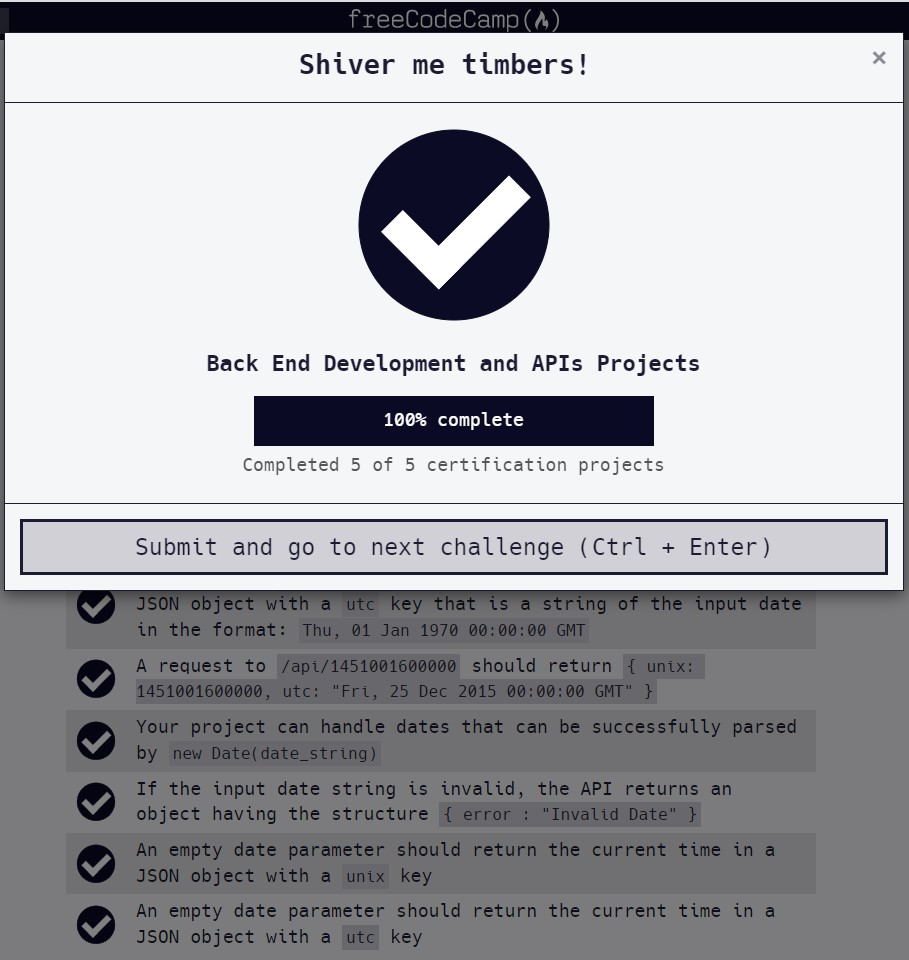
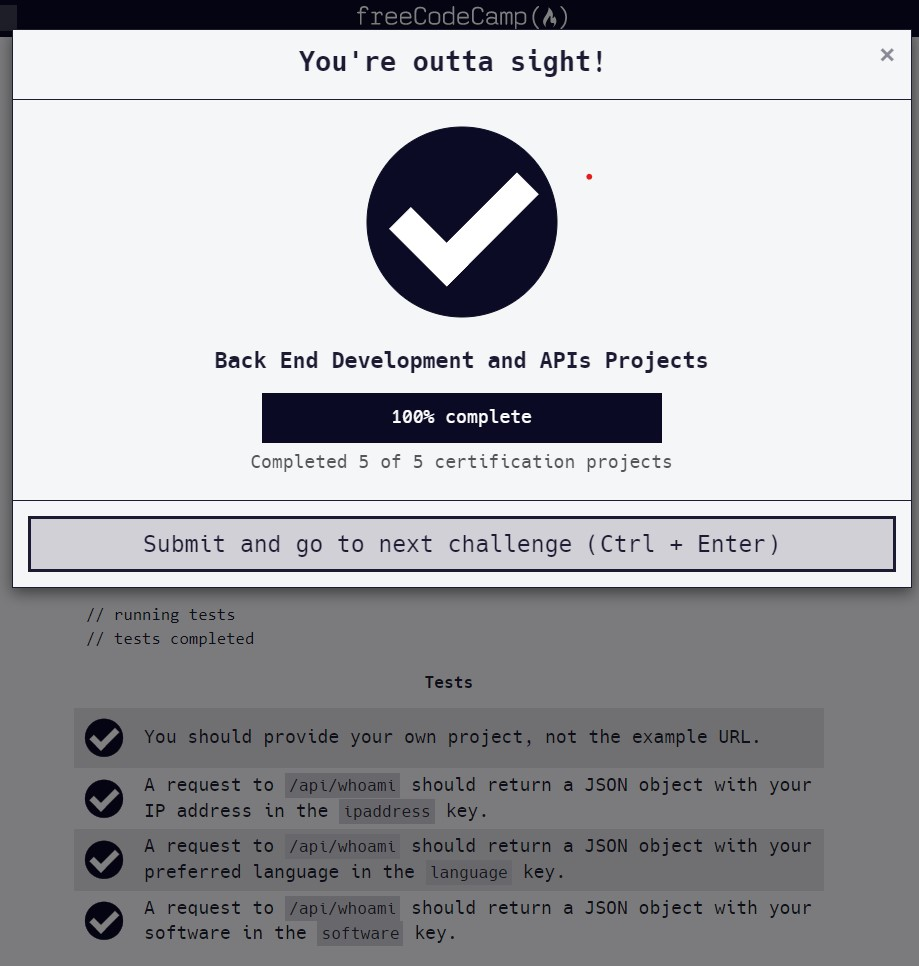
first commit

diff --git a/index.js b/index.js
@@ -2,76 +2,36 @@
 // where your node app starts
 
 // init project
+require('dotenv').config();
 var express = require('express');
 var app = express();
 
 // enable CORS (https://en.wikipedia.org/wiki/Cross-origin_resource_sharing)
-// so that your API is remotely testable by FCC 
+// so that your API is remotely testable by FCC
 var cors = require('cors');
-app.use(cors({optionsSuccessStatus: 200}));  // some legacy browsers choke on 204
+app.use(cors({ optionsSuccessStatus: 200 })); // some legacy browsers choke on 204
 
 // http://expressjs.com/en/starter/static-files.html
 app.use(express.static('public'));
 
 // http://expressjs.com/en/starter/basic-routing.html
-app.get("/", function (req, res) {
+app.get('/', function (req, res) {
   res.sendFile(__dirname + '/views/index.html');
 });
 
-// your first API endpoint... 
-app.get("/api/hello", function (req, res) {
-  res.json({greeting: 'hello API'});
+// your first API endpoint...
+app.get('/api/hello', function (req, res) {
+  res.json({ greeting: 'hello API' });
 });
 
-app.get("/api/:date?", (req,res) => {
-  let input = req.params.date;
-
-  /*1.create variable for checking :  
-      a.isValidDate 
-        to check if input is string with valid date format -> 
-        if not valid date, it will return NaN 
-        example : 
-        -valid   : 2015-12-25, 
-        -invalid : 2015-02-31, 1451001600000
-  */
-  let isValidDate       = Date.parse(input); 
-
-  /*  b.isValidUnixNumber
-        to check if input is string with whole number(no symbol or character in the middle of input) -> 
-        it must be valid unix (source : https://benjaminsemah.com/build-timestamp-microservice)
-  */
-  let isValidUnixNumber = /^[0-9]+$/.test(input)
-
-  //  c.isEmpty to check there is nothing in input
-  let isEmpty = input == "" || input == null;
-  
-  //3.create another variables used in if-else
-  let unix_output = 0;
-  let utc_output  = "";
-  
-  if (isValidDate) {
-    unix_output = new Date(input);
-    utc_output  = unix_output.toUTCString();
-    // valueOf used for getting a variable back to primitive type
-    return res.json({unix : unix_output.valueOf(), utc : utc_output});
-  }
-  else if (isNaN(isValidDate) && isValidUnixNumber) {
-    unix_output = new Date(parseInt(input));
-    utc_output  = unix_output.toUTCString();
-    return res.json({unix : unix_output.valueOf(), utc : utc_output});
-  }
-  else if (isEmpty) {
-    unix_output = new Date();
-    utc_output  = unix_output.toUTCString();
-    return res.json({unix : unix_output.valueOf(), utc : utc_output});  
-  }
-  else {
-    res.json({error: "Invalid Date"});
-  }
-  
+app.get('/api/whoami',(req,res) =>{
+  let yourIP = req.ip;
+  let yourLanguage = req.header("accept-language");
+  let yourSoftware = req.header("user-agent");
+  res.json({ipaddress : yourIP, language : yourLanguage, software : yourSoftware});
 });
 
 // listen for requests :)
-var listener = app.listen(process.env.PORT, function () {
+var listener = app.listen(process.env.PORT || 3000, function () {
   console.log('Your app is listening on port ' + listener.address().port);
 });

diff --git a/views/index.html b/views/index.html
@@ -1,32 +1,34 @@
 <!DOCTYPE html>
 
 <html>
+
    <head>
-      <title>Timestamp Microservice | freeCodeCamp.org</title>
-      <link rel="shortcut icon" href="https://cdn.freecodecamp.org/universal/favicons/favicon-32x32.png" type="image/x-icon"/>
+      <title>Request Header Parser</title>
+      <link rel="shortcut icon" href="https://cdn.hyperdev.com/us-east-1%3A52a203ff-088b-420f-81be-45bf559d01b1%2Ffavicon.ico" type="image/x-icon"/>
       <link href="https://fonts.googleapis.com/css?family=Roboto" rel="stylesheet" type="text/css">
       <link href="style.css" rel="stylesheet" type="text/css">
    </head>
 
    <body>
-    <h1>Timestamp Microservice</h1>
-    <hr />
-    <div class="container">
-      <h3>Example Usage:</h3>
-      <ul>
-        <li><a href="api/2015-12-25">[project url]/api/2015-12-25</a></li>
-        <li><a href="api/1451001600000">[project url]/api/1451001600000</a></li>
-      </ul>
+      <div class="container">
+        <h2>Request Header Parser Microservice</h2>
 
-      <h3>Example Output:</h3>
-      <p>
-        <code>{"unix":1451001600000, "utc":"Fri, 25 Dec 2015 00:00:00 GMT"}</code>
-      </p>
-    </div>
-    <div class="footer">
-      <p>
-        By <a href="https://www.freecodecamp.org/">freeCodeCamp.org</a>
-      </p>
-    </div>
-  </body>
+        <h3>Example Usage:</h3>
+        <p>
+          <a href="api/whoami">[base url]/api/whoami</a>
+        </p>
+
+        <h3>Example Output:</h3>
+        <p>
+          <code>{"ipaddress":"::ffff:159.20.14.100","language":"en-US,en;q=0.5",<br>"software":"Mozilla/5.0 (X11; Ubuntu; Linux x86_64; rv:50.0) Gecko/20100101 Firefox/50.0"}</code>
+        </p>
+      </div>
+      <div class="footer">
+        <p>
+          by <a href="https://www.freecodecamp.org">freeCodeCamp</a>
+        </p>
+      </div>
+   </body>
+
+
 </html>

diff --git a/public/style.css b/public/style.css
@@ -1,5 +1,3 @@
-/****** Main Styling ******/
-
 body {
 	font-family: 'Roboto', sans-serif;
 	font-size: 16px;
@@ -18,10 +16,6 @@ h3 {
   margin-top: 30px;
 }
 
-hr {
-	margin: 25px;
-}
-
 .footer {
 	margin-top: 40px;
 }
@@ -31,14 +25,6 @@ code {
   padding: 2px;
   color: black;
   background-color: #fff;
-}
-
-ul {
-	list-style-type: none;
-}
-
-li {
-  margin-bottom: 0.5em;
 }
 
 a {

diff --git a/README.md b/README.md
@@ -1,9 +1,7 @@
-# Timestamp Microservice
+# Request Header Parser Microservice
 
-This is the result of the Timestamp Microservice project.
-Instructions for building this project can be found at
-[https://www.freecodecamp.org/learn/apis-and-microservices/apis-and-microservices-projects/timestamp-microservice](https://www.freecodecamp.org/learn/apis-and-microservices/apis-and-microservices-projects/timestamp-microservice)
+This is the result of the Request Header Parser Microservice project. Instructions for building this project can be found at
+[https://www.freecodecamp.org/learn/apis-and-microservices/apis-and-microservices-projects/request-header-parser-microservice](https://www.freecodecamp.org/learn/apis-and-microservices/apis-and-microservices-projects/request-header-parser-microservice)
 
 ### Result :
-
 ![complete](complete.jpg)
